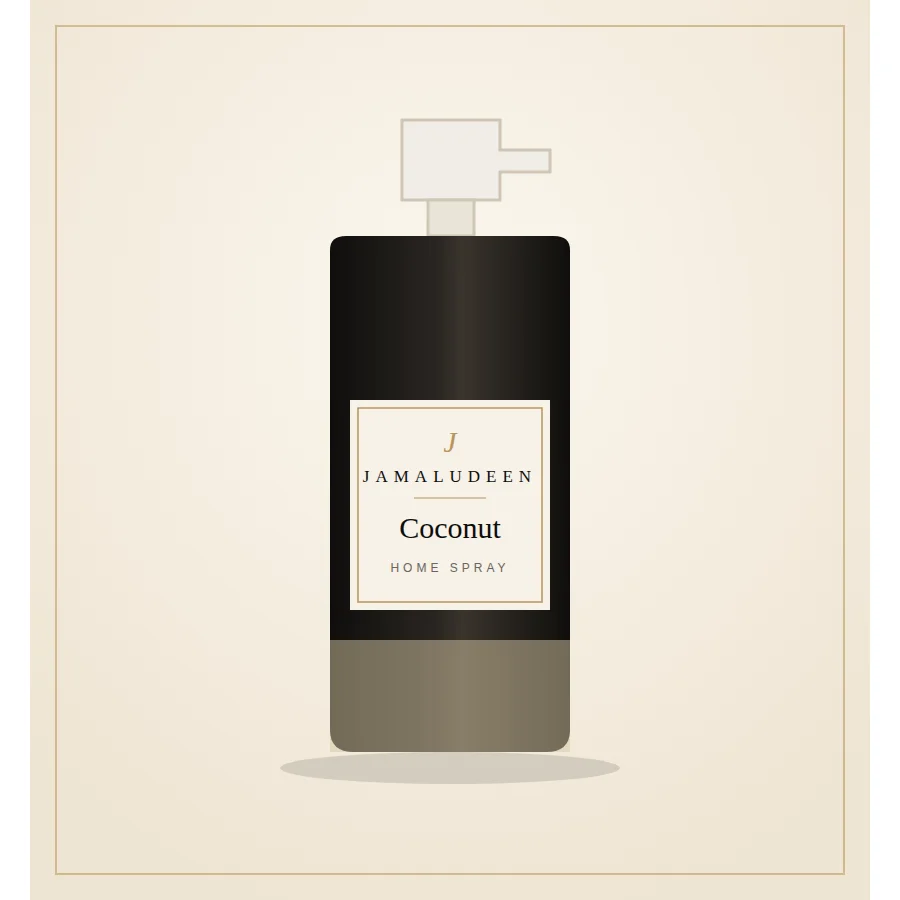
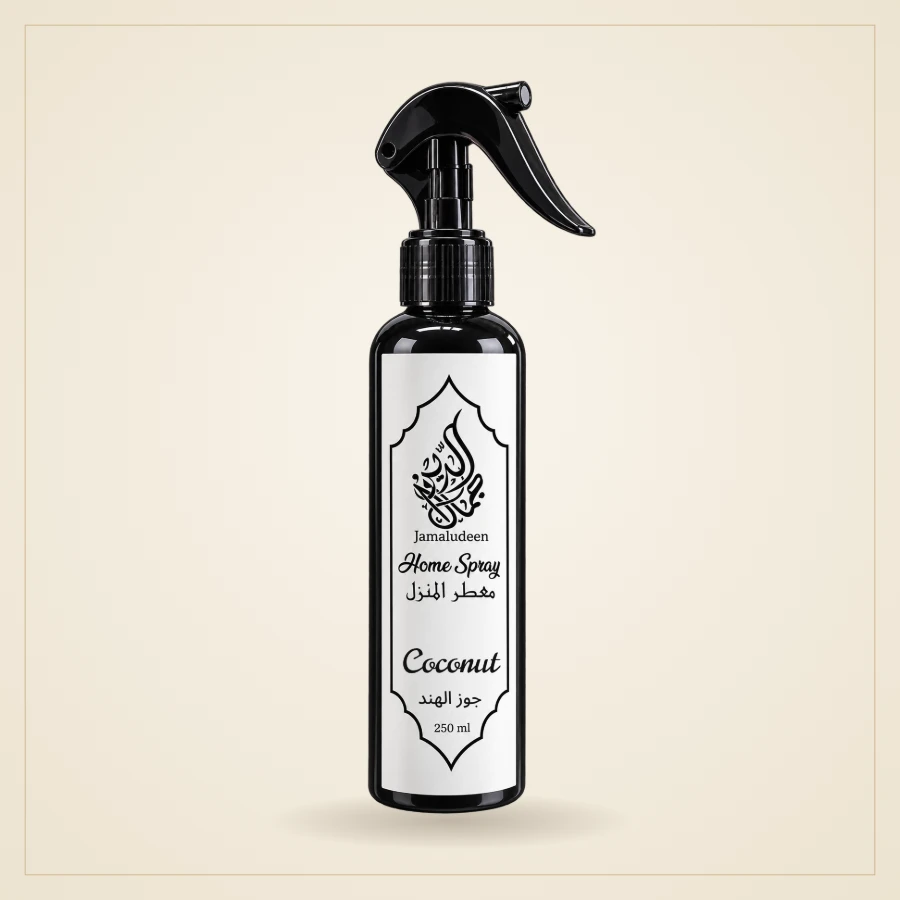
Home sprays: real Jamaludeen bottle photo for all 31 scents
Each image uses the owner's bottle photo with the scent name (English and
Arabic) set in the label, on the shop's cream backdrop; 900px WebP plus a
560px thumbnail. The 21 sprays added from the POS get their image mapping.

Claude-Session: https://claude.ai/code/session_01XyjyzHKQkcji54afXxYFTW

Changed region(s): [[0.3111, 0.0933, 0.6844, 0.9333], [0.9644, 0.0, 1.0, 1.0], [0.0, 0.0, 0.0622, 1.0]]

diff --git a/database/brand-product-images.js b/database/brand-product-images.js
@@ -305,6 +305,27 @@ const BRAND_PRODUCT_IMAGES = [
   { brand: 'JAMALUDEEN', name: 'HOME SPRAY ROYALE OUD', image: '/images/brands/jamaludeen/home-spray-royale-oud.webp' },
   { brand: 'JAMALUDEEN', name: 'HOME SPRAY STRAWBERRY', image: '/images/brands/jamaludeen/home-spray-strawberry.webp' },
   { brand: 'JAMALUDEEN', name: 'HOME SPRAY VANILLE', image: '/images/brands/jamaludeen/home-spray-vanille.webp' },
+  { brand: 'JAMALUDEEN', name: 'HOME SPRAY COTTON FLOWERS', image: '/images/brands/jamaludeen/home-spray-cotton-flowers.webp' },
+  { brand: 'JAMALUDEEN', name: 'HOME SPRAY MANGO & PAPAYA', image: '/images/brands/jamaludeen/home-spray-mango-papaya.webp' },
+  { brand: 'JAMALUDEEN', name: 'HOME SPRAY MEDINA', image: '/images/brands/jamaludeen/home-spray-medina.webp' },
+  { brand: 'JAMALUDEEN', name: 'HOME SPRAY WISAL', image: '/images/brands/jamaludeen/home-spray-wisal.webp' },
+  { brand: 'JAMALUDEEN', name: 'HOME SPRAY AL SULTAN', image: '/images/brands/jamaludeen/home-spray-al-sultan.webp' },
+  { brand: 'JAMALUDEEN', name: 'HOME SPRAY LEMON', image: '/images/brands/jamaludeen/home-spray-lemon.webp' },
+  { brand: 'JAMALUDEEN', name: 'HOME SPRAY LILAC', image: '/images/brands/jamaludeen/home-spray-lilac.webp' },
+  { brand: 'JAMALUDEEN', name: 'HOME SPRAY LOTUS', image: '/images/brands/jamaludeen/home-spray-lotus.webp' },
+  { brand: 'JAMALUDEEN', name: 'HOME SPRAY MUSK SULTAN', image: '/images/brands/jamaludeen/home-spray-musk-sultan.webp' },
+  { brand: 'JAMALUDEEN', name: 'HOME SPRAY MUSKMELON', image: '/images/brands/jamaludeen/home-spray-muskmelon.webp' },
+  { brand: 'JAMALUDEEN', name: 'HOME SPRAY OUD & AMBAR', image: '/images/brands/jamaludeen/home-spray-oud-ambar.webp' },
+  { brand: 'JAMALUDEEN', name: 'HOME SPRAY RUBY RUSH', image: '/images/brands/jamaludeen/home-spray-ruby-rush.webp' },
+  { brand: 'JAMALUDEEN', name: 'HOME SPRAY TUTTI FRUTTI', image: '/images/brands/jamaludeen/home-spray-tutti-frutti.webp' },
+  { brand: 'JAMALUDEEN', name: 'HOME SPRAY BLUEBERRY', image: '/images/brands/jamaludeen/home-spray-blueberry.webp' },
+  { brand: 'JAMALUDEEN', name: 'HOME SPRAY BUBBLE GUM', image: '/images/brands/jamaludeen/home-spray-bubble-gum.webp' },
+  { brand: 'JAMALUDEEN', name: 'HOME SPRAY GHOBAR AL FODDA', image: '/images/brands/jamaludeen/home-spray-ghobar-al-fodda.webp' },
+  { brand: 'JAMALUDEEN', name: 'HOME SPRAY GRAPES & BERRIES', image: '/images/brands/jamaludeen/home-spray-grapes-berries.webp' },
+  { brand: 'JAMALUDEEN', name: 'HOME SPRAY LOVE DAY', image: '/images/brands/jamaludeen/home-spray-love-day.webp' },
+  { brand: 'JAMALUDEEN', name: 'HOME SPRAY MAGIC FRUIT', image: '/images/brands/jamaludeen/home-spray-magic-fruit.webp' },
+  { brand: 'JAMALUDEEN', name: 'HOME SPRAY ROSE', image: '/images/brands/jamaludeen/home-spray-rose.webp' },
+  { brand: 'JAMALUDEEN', name: 'HOME SPRAY POMEGRANATE', image: '/images/brands/jamaludeen/home-spray-pomegranate.webp' },
 ];
 
 module.exports = { BRAND_PRODUCT_IMAGES };
